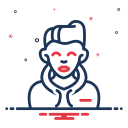
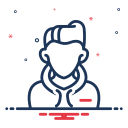
styling of gender boxes

Changed region(s): [[0.4375, 0.4688, 0.5625, 0.5938], [0.375, 0.375, 0.625, 0.4688]]

diff --git a/app/assets/stylesheets/components/_gender.scss b/app/assets/stylesheets/components/_gender.scss
@@ -46,24 +46,24 @@
 }
 
 
-#user_gender_not_say + label {
+#user_gender_rather_not_say + label {
   background-image: image-url("no_gender.png");
   background-repeat: no-repeat;
   background-size: contain;
   background-position: right;
+  padding-right: 54px;
+  padding-bottom: 13px;
 }
 
-#snippet_category_javascript:checked + label {
-  background-color: #FFC65A;
-  border-color: #FFC65A;
+#user_gender_male:checked + label {
+  border-color: #1D3557;
 }
 
 
-#snippet_category_css + label {
-  color: #62DDF5;
+#user_gender_rather_not_say:checked + label {
+  border-color: #1D3557;
 }
 
-#snippet_category_css:checked + label {
-  background-color: #62DDF5;
-  border-color: #62DDF5;
+#user_gender_female:checked + label {
+  border-color: #1D3557;
 }
